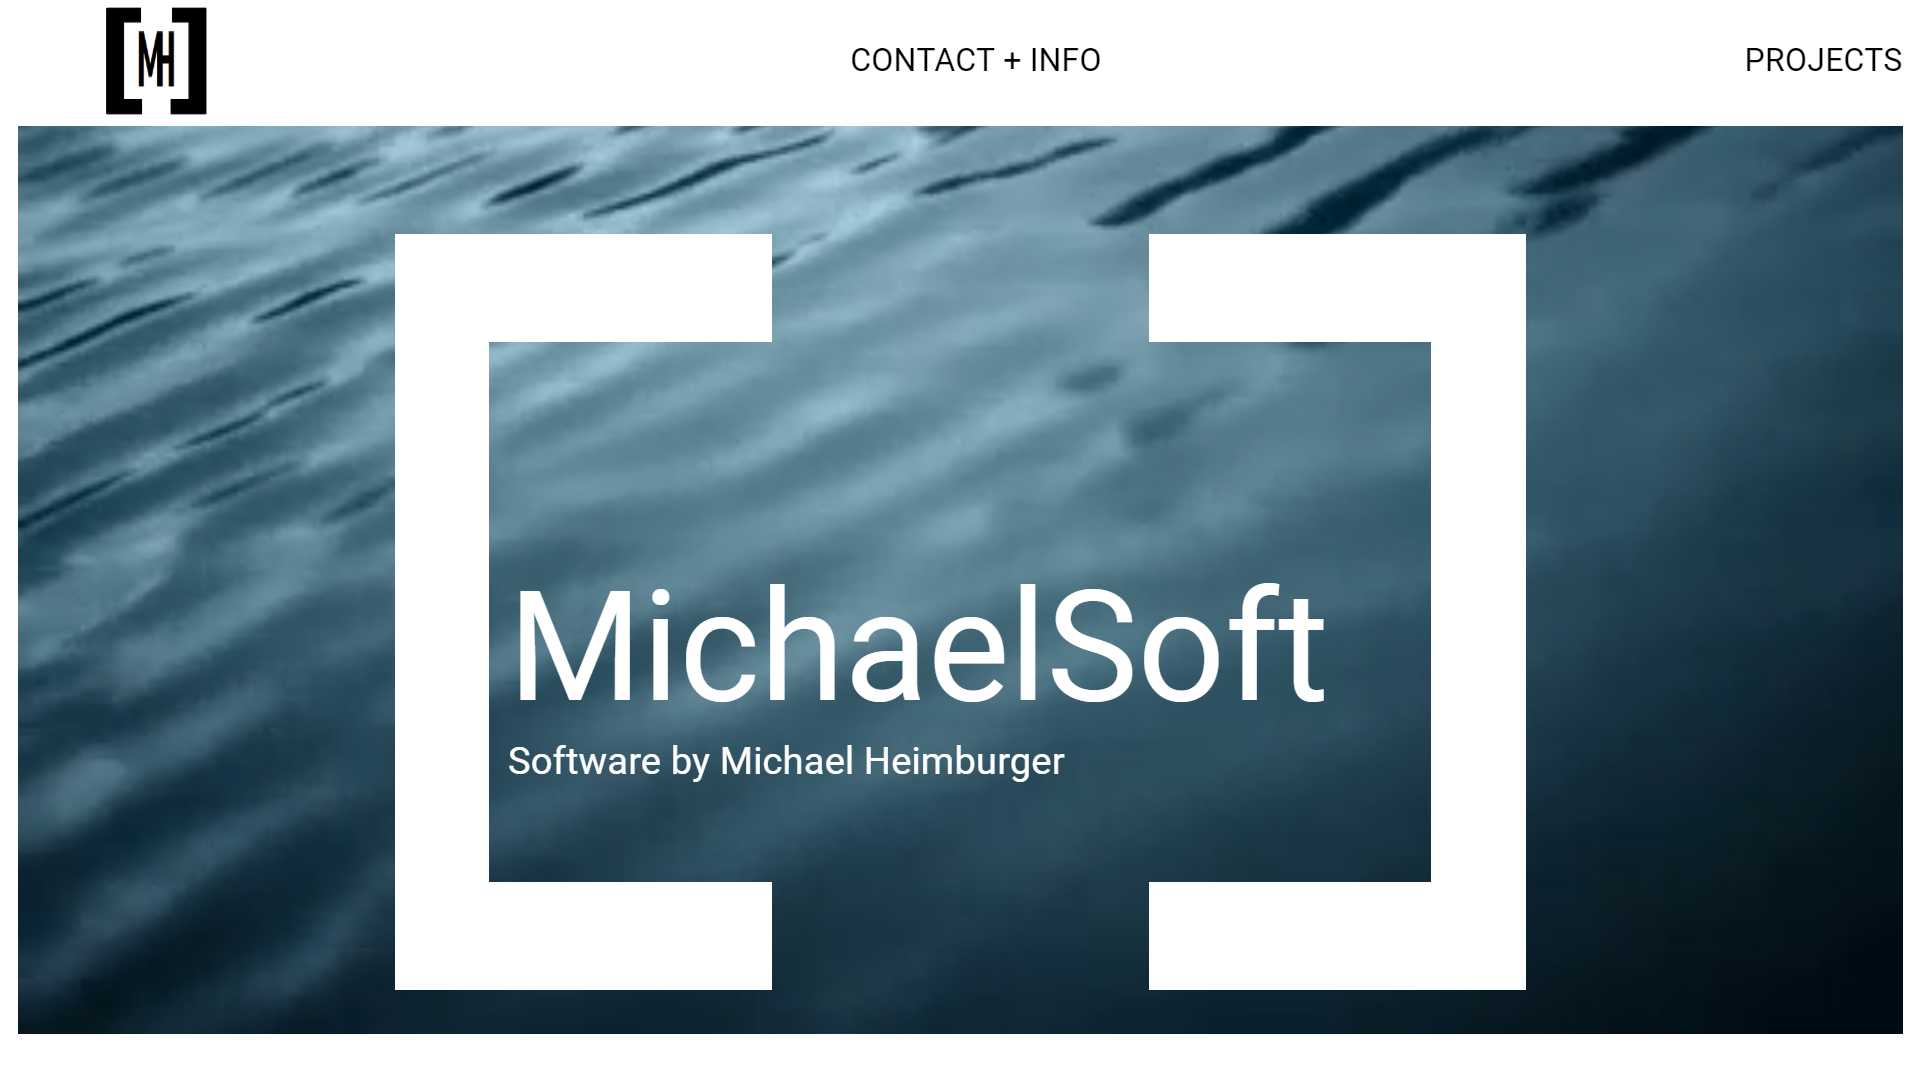
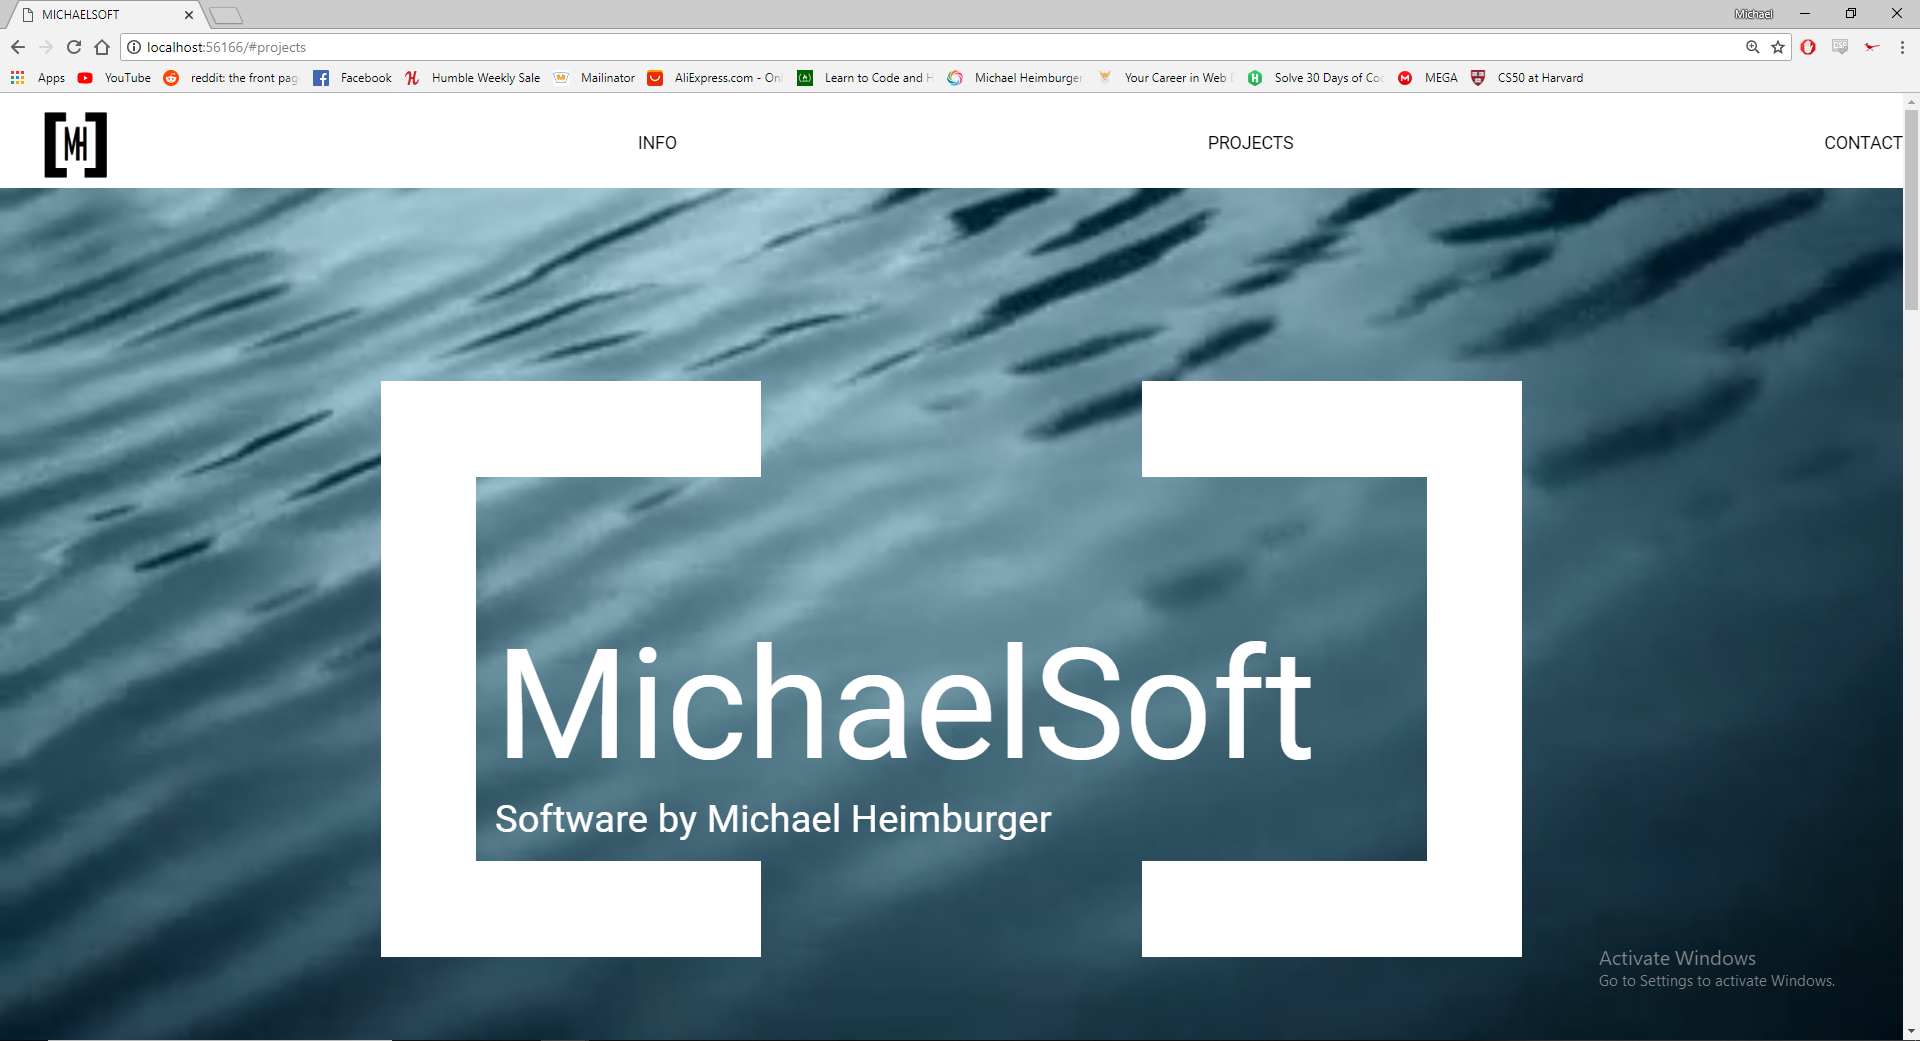
product info boxes now open when clicked, close to a minimum viable product

diff --git a/index.html b/index.html
@@ -8,7 +8,9 @@
     <link href="css/indexstyle.css" rel="stylesheet" />
 </head>
 <body onload="GetBG()">
+    
     <div class="container">
+        <div class="WIP"><p>WIP</p></div>
         <video autoplay muted loop id="bgvid">
             <!--background autoplay video-->
             <source id="swap1" src="images/waves.mp4" />
@@ -35,7 +37,7 @@
             <p id="bottomtext">Software by Michael Heimburger</p>
         </div>
         <div class="spacer"></div>
-        <div class="infotext name"><p>ABOUT ME</p></div>
+
         <div id="info" class="info">
             <img class="head" src="/images/headshot.jpg" />
             <p> Howdy I am Michael Heimburger a Full Stack Software Developer currently studying a wide range of concepts at We Can Code It. The website you are currently viewing has been hadcrafted by yours truly and is in its early stages of development. If your would like to contact me for anything please do so by any of the methods below.</p>
@@ -46,18 +48,52 @@
         </div>
         <div class="spacer3"></div>
         <div id="projects" class="projects">
-            <div  class="pj stkmkt" ><p class="p">Stock Market</p></div>
-            <div  class="pj vpsh"><p class="p">Virtual Pet Shelter</p></div>
-            <div  class="pj villa"><p class="p">Tuscany Villa Webpage</p></div>
-            <div  class="pj this"><p class="p">MichaelSoft Webpage</p></div>
-
+            <a onclick="InfoSTK()" class="pj stkmkt"><p class="p">Stock Market</p></a>
+            <a onclick="InfoVPS()" class="pj vpsh"><p class="p">Virtual Pet Shelter</p></a>
+            <a onclick="InfoTUS()" class="pj villa"><p class="p">Tuscany Villa Webpage</p></a>
+            <a onclick="InfoMSO()" class="pj this"><p class="p">MichaelSoft Webpage</p></a>
 
         </div>
 
         <div class="spacer4"></div>
-        <div id="contact" class="contact"></div>
+        <div id="contact" class="contact">
+            <ul>
+                <li> <p>EMAIL : mrheimburger45@gmail.com</p>  </li>
+                <li>  <p>PHONE : 440-364-9337</p>  </li>
+                <li>  <a href="https://www.linkedin.com/in/mheimburger/">LINKEDIN : /in/mheimburger/ </a> </li>
+                <li>  <a href="https://github.com/MichaelHeimburger">GITHUB : /MichaelHeimburger </a></li>
+            </ul>
+        </div>
         <div class="infowin" onclick="hideinfo()">
-            <div class="center"></div>
+            <div class="center">
+                <div class="stkmktinfo innerinfo">
+                    <img src="images/stockmarketpic.png" />
+                    <img src="images/stockmarketpic2.png" />
+                    <p>A C# console app that makes heavy use of OOP - by allowing the user to name any number of stocks and then trade them on an ever changing market. The stocks the user creates are added to a list which is displayed back to the user along with a randomly generated price, price history, and the amount the user currently owns. Prices are randomly generated and can be determined by in app "news" events allowing the user some sense of prediction. <br />For more information feel free to contact me or use the github link below</p>
+                    <a href="https://github.com/MichaelHeimburger/Stock-Market">GITHUB</a>
+                </div>
+                <div class="Virtualpetinfo innerinfo">
+                    <img src="images/petshelter.png" />
+                    <img src="/images/petshelter2.png" />
+                    <p>A C# console app using lists,  OOP, and inheritance. This app allows the user to take control of a "virtual pet shelter" in which they can manage the needs of a list of virtual pet classes. Upon each user input the nees of the classes change requing the user to feed/water/play with the group of pets to raise their values. Upon opening the application the user can choose between a manager or volunteer, each having different roles and methods to take use of while modifying the same classes. <br />For more information feel free to contact me or use the github link below</p>
+                    <a href="https://github.com/MichaelHeimburger/Virtual-Pet-Shelter-Project">GITHUB</a>
+                </div>
+                <div class="tucanyvillainfo innerinfo">
+                    <img src="images/tuskanyvilla.png" />
+                    <img src="/images/tuskanyvilla2.png" />
+                    <p>A Webpage made using CSS, CSSGRID,  FlexBox, and HTML5. This page was a project for WCCI with the task of replicating a webpage based on an image. The resulting page has a sleek modernist design and a responsive layout modeled enitrely with Grid/Flex-box. ,<br />For more information feel free to contact me or use the github link below</p>
+                    <a href="https://github.com/MichaelHeimburger/TuskanyVilla">GITHUB</a>
+                </div>
+                <div class="michaelsoftinfo innerinfo">
+                    <img src="images/sitepic.png" />
+                    <img src="/images/sitepic2.png" />
+                    <p>The site your are visiting currently has been handcrafted entirely by myself with CSS, CSS-Grid, Flex-Box, HTML5, and Javascript. This current webpage keeps the same content-size proportions on mobile and desktop maintaining both design and visibility. <br />For more information feel free to contact me or if you would like to view the code for this website the github link is below</p>
+                    <a href="https://github.com/MichaelHeimburger/MichaelHeimburger.github.io">GITHUB</a>
+                </div>
+
+
+            </div>
+
         </div>
     </div>
 </body>

diff --git a/css/indexstyle.css b/css/indexstyle.css
@@ -1,6 +1,7 @@
 
 * {
     font-family: 'Roboto', sans-serif;
+    text-decoration:none;
 }
 body{
     margin:0;
@@ -10,7 +11,7 @@ body{
     display:grid;
     width:100%;
     height:90vh;
-    grid-template-rows: 10vw 10vw 5vw 20vw 5vw 20vh 30vw 20vh 50vh 10vh 60vw 30vh 30vh;
+    grid-template-rows: 5vh 10vh 5vw 20vw 5vw 20vh 30vw 20vh 20vw 10vw 40vw 30vw 30vw;
     grid-template-columns: 1fr .25fr .75fr 1fr .75fr .25fr 1fr;
     margin-bottom:1vh;
 }
@@ -39,7 +40,7 @@ body{
 }
     .header > ul {
         color: black;
-        font-size: 2.5vw;
+        font-size: 1rem;
         display: flex;
         flex-direction: row;
         align-items: center;
@@ -111,13 +112,7 @@ body{
     grid-row: 6/span1;
     grid-column:1 /span7;
 }
-.infotext{
-    grid-column:5 /span 1;
-    grid-row: 7/ span 1;
-    z-index:2;
-    font-size:2vw;
-    margin-top:0;
-}
+
 
 .info{
     background-color:white;
@@ -162,17 +157,20 @@ body{
     flex-wrap:wrap;
 }
 .pj {
-    height:15vw;
-    width:30vw;
-    background-size:cover;
-    background-repeat:no-repeat;
-    margin:1vw;
-
-    overflow:auto;
-  display:flex;
-  justify-content:flex-start;
-  align-items:flex-start;
+    height: 15vw;
+    width: 30vw;
+    background-size: cover;
+    background-repeat: no-repeat;
+    margin: 1vw;
+    border: .3vw outset ;
+    overflow: auto;
+    display: flex;
+    justify-content: flex-start;
+    align-items: flex-start;
 }
+    .pj:hover {
+        border:.3vw;
+    }
 .pj:hover >p{
     height:100%;
     width:100%;
@@ -180,13 +178,14 @@ body{
     margin:0;
     }
     .pj > p {
+
         font-size: 2vw;
         padding: 1vw;
         padding-top: 0;
         padding-left: 0;
         background-color: rgba(147, 147, 209, 0.5);
         margin: 0;
-        color: rgb(38, 38, 175);
+        color: black;
         font-weight: bolder;
     }
 .stkmkt{
@@ -214,6 +213,18 @@ body{
     grid-row: 13 /span 1;
     grid-column: 1 /span 7;
     background-color:white;
+
+}
+    .contact > ul {
+        display: flex;
+        justify-content: space-between;
+        flex-direction: column;
+        text-decoration: none;
+        color:black;
+    }
+a{
+    color:inherit;
+    margin:inherit;
 }
 
 
@@ -231,10 +242,36 @@ body{
     justify-content:center;
     align-items:center;
 }
-.center{
-    background-color:white;
-    height:60%;
-    width:40%;
+
+.center {
+    background-color: white;
+    height: 80%;
+    width: 70%;
+    position: fixed;
+}
+.innerinfo > img {
+    height: 15vw;
+    border: solid 1vw gray;
+    margin-left: 2vw;
+    flex-basis: 30%;
+}
+.innerinfo >img:hover{
+    height:30vw;
+    z-index:+2;
     position:fixed;
+}
+.innerinfo{
+    font-size:1.7rem;
+    margin:1.5vw;
     display:none;
+}
+.WIP {
+    position: fixed;
+    font-size: 5vw;
+    display: flex;
+    justify-content: center;
+    align-items: flex-end;
+    color: rgba(96, 96, 96, 0.3);
+    z-index:+1;
+    font-family:Arial;
 }

diff --git a/script/indexscripts.js b/script/indexscripts.js
@@ -12,13 +12,33 @@
     }
 }
 
-function Info(x) {
-    
-    
-
+function InfoSTK() {
+    document.getElementsByClassName('infowin')[0].style.display = "flex";
+    document.getElementsByClassName('center')[0].style.display = "flex";
+    document.getElementsByClassName('stkmktinfo')[0].style.display = "block";
+}
+function InfoVPS() {
+    document.getElementsByClassName('infowin')[0].style.display = "flex";
+    document.getElementsByClassName('center')[0].style.display = "flex";
+    document.getElementsByClassName('Virtualpetinfo')[0].style.display = "block";
 }
 function hideinfo() {
 
-    var x = document.getElementsByClassName("infowin")[0].style.display="none";
+    document.getElementsByClassName("infowin")[0].style.display="none";
+    document.getElementsByClassName('center')[0].style.display = "none";
+    document.getElementsByClassName('stkmktinfo')[0].style.display = "none";
+    document.getElementsByClassName('Virtualpetinfo')[0].style.display = "none";
+    document.getElementsByClassName('tucanyvillainfo')[0].style.display = "none";
+    document.getElementsByClassName('michaelsoftinfo')[0].style.display = "none";
 
+}
+function InfoTUS() {
+    document.getElementsByClassName('infowin')[0].style.display = "flex";
+    document.getElementsByClassName('center')[0].style.display = "flex";
+    document.getElementsByClassName('tucanyvillainfo')[0].style.display = "block";
+}
+function InfoMSO() {
+    document.getElementsByClassName('infowin')[0].style.display = "flex";
+    document.getElementsByClassName('center')[0].style.display = "flex";
+    document.getElementsByClassName('michaelsoftinfo')[0].style.display = "block";
 }
